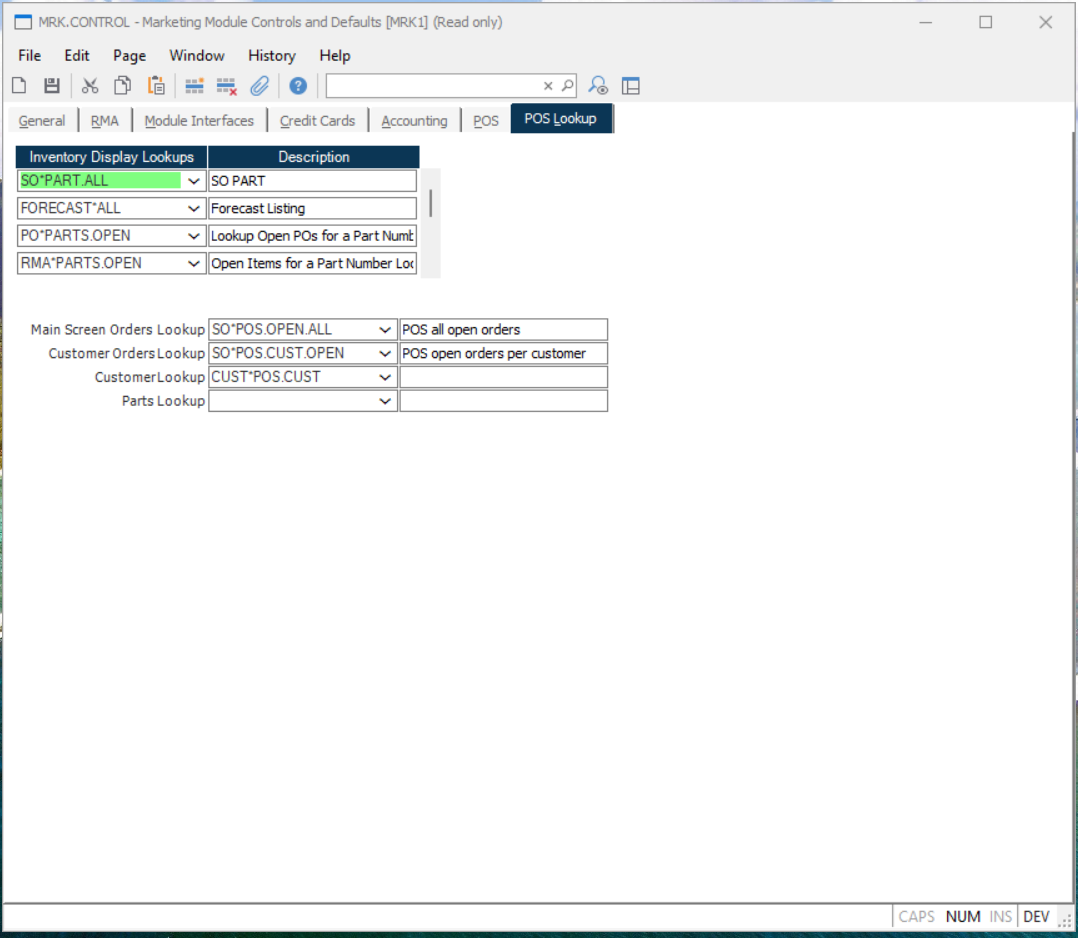
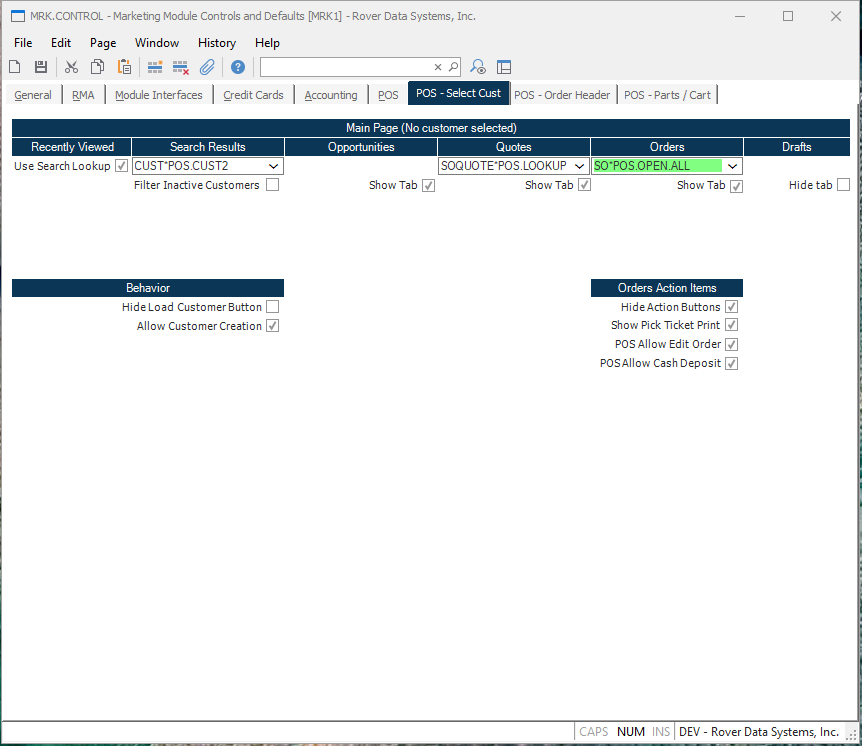
Co 2.13.0 release (#169)
* Adding MRK and integetration updates

* clean up changes

* Adding coupons gif

diff --git a/site/rover/business-suite/integrations/pos/README.md b/site/rover/business-suite/integrations/pos/README.md
@@ -20,20 +20,22 @@ This article describes how to integrate your back end to various Rover POS featu
     - [Order Lookup](#order-lookup)
     - [Quote Lookup](#quote-lookup)
   - [Categories and Filters](#categories-and-filters)
-
+  - [Coupons](#coupons)
+  
 ## Validation Codes
 
 These validation codes are used to determine which section of POS triggered an API call to validate the current sales order.
 
-| Code                | Description                                 |
-| ------------------- | ------------------------------------------- |
-| CUSTOMER_SELECTED   | Selecting a customer to create a new order. |
-| ORDER_INFO_SELECTED | Navigating to the order information section |
-| EDIT_ORDER          | Selecting an order to edit.                 |
-| PARTS_SELECTED      | Navigating to the parts sections.           |
-| DRAFT_ORDER         | Selecting a draft order to edit.            |
-| LIS_ITEM            | Add/Edit/Remove a part from the cart.       |
-| SHIP_SEQ            | Selecting a new shipping address            |
+| Code                | Description                                  |
+| ------------------- | -------------------------------------------- |
+| CUSTOMER_SELECTED   | Selecting a customer to create a new order.  |
+| ORDER_INFO_SELECTED | Navigating to the order information section  |
+| EDIT_ORDER          | Selecting an order to edit.                  |
+| PARTS_SELECTED      | Navigating to the parts sections.            |
+| DRAFT_ORDER         | Selecting a draft order to edit.             |
+| LIS_ITEM            | Add/Edit/Remove a part from the cart.        |
+| SHIP_SEQ            | Selecting a new shipping address             |
+| COUPON_ID           | Add/Edit/Remove a coupon from a sales order. |
 
 Additionally, support for specific fields in the Order Information section can trigger a validation if the field has a defined FDICT and has `web_validate` flag enabled.
 
@@ -345,5 +347,41 @@ Filters present an additional level of power as they allow you to display differ
 ```
 
 In this example, "Brand" serves as the top level filter and "3M" is an option within. Do not be confused by the use of the term category here even though we're describing filter functionality.
+
+## Coupons
+
+Add `pos_allow_coupons` to your `MRK.CONTROL` response to enable this feature.
+
+``` json
+{
+    "pos_allow_coupons": "Y"
+}
+```
+
+Coupons are a list of coupons objects that can be added to a sales order. A coupon can associate with either one or multiple part line items. This does required the `coupon_li` to have a match a `lis` in the order `lis_items`. The sum of `coup_li_items` `coup_li_disc` is presented in the receipt view.
+
+``` json
+
+    {
+        "so_id": "",
+        "coupon_id_items": [
+            {
+                "coupon_id": "11",
+                "coup_disc_amt": "10.00",
+                "coup_li_items": [
+                    {
+                        "coup_li": "1",
+                        "coup_li_disc": "10.00"
+                    }
+                ],
+                "coupon_type": "1",
+                "coupon_title": "NO LIMIT 1"
+            }
+        ]
+    }
+
+```
+
+Rover calculates the order total after each change to the coupon or a price/quantity change to a line item. This requires validation to be enabled by default. Each coupon update will send a validation request with the COUPON.I
 
 <PageFooter />

diff --git a/site/rover/release-notes/web/2-13-0/README.md b/site/rover/release-notes/web/2-13-0/README.md
@@ -11,6 +11,7 @@ These are the release notes for version 2.13.0 (7/16/2025) of the Rover Web appl
 ### Rover Web
 
 #### Point of Sale
+
   - Improved validation of tender input values.
   - When attempting to adjust invoices or credits in the cart while tenders are present, a confirmation dialog is displayed indicating tenders will be cleared.
   - During payment processing, the screen is blocked to avoid interruption of payments.
@@ -18,28 +19,35 @@ These are the release notes for version 2.13.0 (7/16/2025) of the Rover Web appl
   - An MRK.CONTROL toggle has been added to allow the option groups in part detail for related parts to be collapsed by default.
   - Tenders can optionally be cleared based on an error response from payment processing.
     > Only supported by select ERPs
+  - Ability to add/update/view coupons to sales orders has been added. Requires [MRK.CONTROL](../../../AP-OVERVIEW/AP-ENTRY/AP-E/AP-E-1/CURRENCY-CONTROL/SO-E/MRK-CONTROL/MRK-CONTROL-8/README.md#allow-coupons) toggle to be enabled.
+  ![Coupons](./pos-coupons.gif)
 
-#### Inventory 
-  - Option groups in related parts can now be reordered.
-  - A lookup option has been added to improve transaction load time in part detail.
+#### Inventory
+
+- Option groups in related parts can now be reordered.
+- A lookup option has been added to improve transaction load time in part detail.
 
 #### Customer Inquiry
-  - Lookup based customer search option has been added.
-  - "Type" column has been added to the customer contacts table.
-  
 
+- Lookup based customer search option has been added.
+- "Type" column has been added to the customer contacts table.
+  
 #### Production Scheduling
 
- - Defined substatus values are now displayed as options in WO edit.
+- Defined substatus values are now displayed as options in WO edit.
 
+#### General
+
+- Search button has been added to fields with file dictionary references. This allows the ability to search against multiple lookup.
+  > Availability is limited to input fields in Inventory Work Orders, Point of Sale Orders, and Point of Sale Quotes.
 
 ## Bug Fixes
 
 ### Rover Web
 
 ### Point of Sale
- - An issue with automatic credit reduction during payment processing has been corrected.
- - Customer count now properly displays in the badge based on lookup based search total record count.
 
+- An issue with automatic credit reduction during payment processing has been corrected.
+- Customer count now properly displays in the badge based on lookup based search total record count.
 
 <PageFooter />

diff --git a/site/rover/AP-OVERVIEW/AP-ENTRY/AP-E/AP-E-1/CURRENCY-CONTROL/SO-E/MRK-CONTROL/MRK-CONTROL-7/README.md b/site/rover/AP-OVERVIEW/AP-ENTRY/AP-E/AP-E-1/CURRENCY-CONTROL/SO-E/MRK-CONTROL/MRK-CONTROL-7/README.md
@@ -1,34 +1,44 @@
-# POS Lookup
+# POS - Select Customer Tab
 
 <PageHeader />
 
-![Point of Sale Lookup Tab](./MRK-CONTROL-7.png)
+![Point of Sale Select Customer Tab](./MRK-CONTROL-7.png)
 
 ## Overview
 
-These controls are used to configure the Rover Web POS module lookup tables
+These controls are used to configure the Rover Web POS customer selection page.
 
-### Inventory Display Lookups
+### Main Page
 
-The Inventory Display Lookups tab is used to configure the inventory search functionality in the POS module. Click on the `Available Quantity` icon to display the lookup tables.
+#### Recently Viewed
 
-### Main Screen Orders Lookup
+#### Search Results
 
-The Main Screen Orders Lookup table is used to replace the orders table with a lookup table in the POS main order tab.
+**Customer Lookup** The Customer Lookup tab is used to replace the customer table with a lookup table in the POS main customer tab.
 
-### Customer Orders Lookup
+> [Integrations](../../../../../../../../business-suite/integrations/pos/README.md#customer-lookup)
 
-The Customer Orders Lookup table is used to replace the customer orders table with a lookup table in the customer order tab.
+**Filter Inactive Customers** Checking this box will filter inactive customers from the search results.
 
-### Customer Lookup
+#### Opportunities
 
-The Customer Lookup tab is used to replace the customer table with a lookup table in the POS main customer tab.
+#### Quotes
 
-[Integrations](../../../../../../../../business-suite/integrations/pos/README.md#customer-lookup)
+#### Orders
 
-### Parts Lookup
+#### Drafts
 
-Currently still under development.
+### Behavior
+
+**Hide Load Customer Button** Checking this box will hide the load customer button in the main customer search screen.
+
+**Allow Customer Creations** Checking this box will add a "New Customer" button next to the customer search and allow customer creation when a search result returns empty.
+
+### Order Action Items
+
+**Hide Action Buttons** Checking this box will hide the actions buttons that appear on the right side of the orders tables.
+
+**POS Allow Edit Order** Checking this box will add the ability to edit an order within POS.
 
 <badge text= "Version 1.7.19.0" vertical="middle" />
 

diff --git a/site/rover/business-suite/integrations/fdict/README.md b/site/rover/business-suite/integrations/fdict/README.md
@@ -1,0 +1,63 @@
+# Rover FDICT
+
+<PageHeader />
+
+This article describes how Rover File Dictionaries work with Rover Web
+
+## Table of Contents <!-- omit from toc -->
+
+- [Rover FDICT](#rover-fdict)
+  - [Field](#field)
+    - [Lookups](#lookups)
+
+## Field
+
+The field object controls the UI and controls of an Input in Rover Web.
+
+### Lookups
+
+Lookups can be used on an individual field if the `reference_file` property is defined and a corresponding FDICT with lookups exists. If all conditions are met a "Search" icon will appear to the right of the input.
+
+```json 
+{
+    "field_no": "0",
+    "conv": "MCU",
+    "dict_name": "REP.ID",
+    "desc_items": [
+        {
+            "desc": "Rep.Id"
+        }
+    ],
+    "just": "R",
+    "len": "6",
+    "reference_file": "REP"
+}
+```
+
+The FDICT file will need at least one `lookup_name_items` to be defined. If multiple lookups are available then a dropdown will be presented to allow a user to select from one. `lu_enabled` is set to "Y" is required.
+
+```json
+{
+    "total_records_found": "1",
+    "BlockSize": "50",
+    "fdict_items": [
+        {
+            "file_name": "REP",
+            "lookup_name_items": [
+                {
+                    "lookup_name": "NAME",
+                    "lu_menu_caption": "Lookup rep by name",
+                    "lu_enabled": "Y",
+                    "lu_list_caption": "Lookup rep by name",
+                },
+                {
+                    "lookup_name": "ALL.REPS",
+                    "lu_menu_caption": "Rep Listing by Name",
+                    "lu_enabled": "Y",
+                    "lu_list_caption": "Rep Listing by Name",
+                },
+            ]
+        }
+    ]
+}
+```

diff --git a/site/rover/AP-OVERVIEW/AP-ENTRY/AP-E/AP-E-1/CURRENCY-CONTROL/SO-E/MRK-CONTROL/README.md b/site/rover/AP-OVERVIEW/AP-ENTRY/AP-E/AP-E-1/CURRENCY-CONTROL/SO-E/MRK-CONTROL/README.md
@@ -2,13 +2,17 @@
 
 <PageHeader />
 
-**Form Details**  
-[ General ](MRK-CONTROL-1/README.md)   
-[ RMA ](MRK-CONTROL-2/README.md)   
-[ Module Interfaces ](MRK-CONTROL-3/README.md)   
-[ Credit Cards ](MRK-CONTROL-4/README.md)   
-[ Accounting ](MRK-CONTROL-5/README.md)   
-[ POS ](MRK-CONTROL-6/README.md)
+**Form Details**
+
+- [General](MRK-CONTROL-1/README.md)
+- [RMA](MRK-CONTROL-2/README.md)
+- [Module Interfaces](MRK-CONTROL-3/README.md)
+- [Credit Cards](MRK-CONTROL-4/README.md)
+- [Accounting](MRK-CONTROL-5/README.md)
+- [POS](MRK-CONTROL-6/README.md)
+- [POS - Select Cust](MRK-CONTROL-7/README.md)
+- [POS - Order Header](MRK-CONTROL-8/README.md)
+- [POS - Parts/Cart](MRK-CONTROL-9/README.md)
 
 **Purpose**  
 The MRK.CONTROL procedure is used to define default information which will be

diff --git a/site/rover/AP-OVERVIEW/AP-ENTRY/AP-E/AP-E-1/CURRENCY-CONTROL/SO-E/MRK-CONTROL/MRK-CONTROL-8/README.md b/site/rover/AP-OVERVIEW/AP-ENTRY/AP-E/AP-E-1/CURRENCY-CONTROL/SO-E/MRK-CONTROL/MRK-CONTROL-8/README.md
@@ -1,0 +1,23 @@
+# POS - Order Header Tab
+
+<PageHeader />
+
+![Point of Sale Order Header Tab](./MRK-CONTROL-8.png)
+
+## Overview
+
+Currently under development.
+
+### Behavior
+
+#### Allow Coupons
+
+Checking this box will add the ability to add coupons for sales orders.
+
+> Requires POS Auto Validation to be enabled.
+
+[Integrations](../../../../../../../../business-suite/integrations/pos/README.md#coupons)
+
+<badge text= "Version 1.7.19.0" vertical="middle" />
+
+<PageFooter />

diff --git a/site/rover/AP-OVERVIEW/AP-ENTRY/AP-E/AP-E-1/CURRENCY-CONTROL/SO-E/MRK-CONTROL/MRK-CONTROL-6/README.md b/site/rover/AP-OVERVIEW/AP-ENTRY/AP-E/AP-E-1/CURRENCY-CONTROL/SO-E/MRK-CONTROL/MRK-CONTROL-6/README.md
@@ -48,8 +48,6 @@ This table allows you to specify fields defined in `SO FDICT` to be displayed in
 
 ### Feature Toggles
 
-**Hide Load Customer Button** Checking this box will hide the load customer button in the main customer search screen.
-
 **Disable Downloading Statements** Checking this box will hide the download statement button in the invoices tab.
 
 **Disable Emailing Statements** Checking this box will hide the email statement button in the invoices tab.

diff --git a/site/rover/AP-OVERVIEW/AP-ENTRY/AP-E/AP-E-1/CURRENCY-CONTROL/SO-E/MRK-CONTROL/MRK-CONTROL-9/README.md b/site/rover/AP-OVERVIEW/AP-ENTRY/AP-E/AP-E-1/CURRENCY-CONTROL/SO-E/MRK-CONTROL/MRK-CONTROL-9/README.md
@@ -1,0 +1,13 @@
+# POS - Order Header
+
+<PageHeader />
+
+![Point of Sale Parts Cart](./MRK-CONTROL-9.png)
+
+## Overview
+
+Currently under development.
+
+<badge text= "Version 1.7.19.0" vertical="middle" />
+
+<PageFooter />

diff --git a/site/rover/business-suite/integrations/README.md b/site/rover/business-suite/integrations/README.md
@@ -12,5 +12,7 @@
 
 [Security](security/README.md)
 
+[FDICT](fdict/README.md)
+
 
 <PageFooter />
